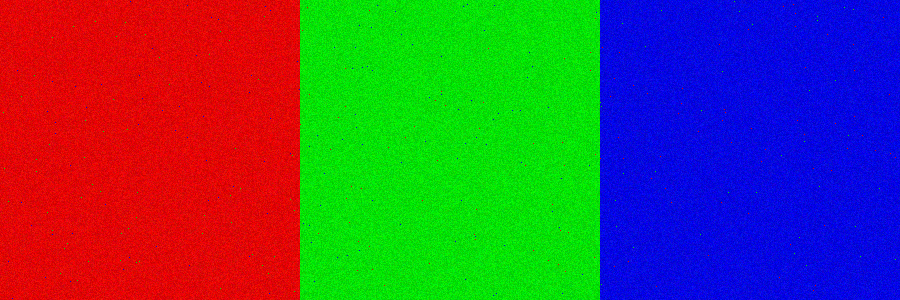
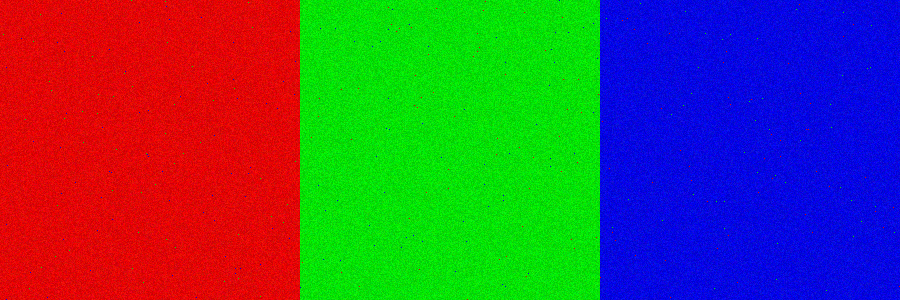
denoising an image

Changed region(s): [[0.0, 0.0, 1.0, 1.0]]

diff --git a/src/noisyRGBimage.py b/src/noisyRGBimage.py
@@ -49,7 +49,7 @@ noisy_image = Image.fromarray(noisy_image_array.astype(np.uint8))
 pixels = noisy_image.load()
 # pixels = np.random.randint(0, 15)
 
-# get height and width of image
+# generate random noise
 height = noisy_image.height
 width = noisy_image.width
 print('height: ', height, " width: ", width)
@@ -58,14 +58,22 @@ print('img.size[0]: ', noisy_image.size[0], ' img.size[1]: ', noisy_image.size[1
 # calculate the total number of pixels in the image = height * width
 total_num_pixels = height * width
 
+# iterate through image
 for i in range(width):
     for j in range(height):
-        x = pixels[i, j]
-        y = (math.ceil(random.random() * 50 - 25), math.ceil(random.random() * 50 - 25), math.ceil(random.random() * 50 - 25))
-        z = tuple(map(lambda i, j: i + j, x,y))
-        # y = tuple(map(tuple, y.astype(int)))
+        
+        # get current pixel value
+        current_pixel_value = pixels[i, j]
+        
+        # get a random number between (-25, 25)
+        rand_num = (math.ceil(random.random() * 50 - 25), math.ceil(random.random() * 50 - 25), math.ceil(random.random() * 50 - 25))
+        
+        # add random number to the current pixel value
+        new_pixel_value = tuple(map(lambda i, j: i + j, current_pixel_value, rand_num))
         # print("I; ", i , "j: ", j, "x: ", x, "y: ", y, 'z: ', z)
-        pixels[i, j] = z
+        
+        # update current pixel to new color
+        pixels[i, j] = new_pixel_value
     
 # total_num_pixels = height * width
 # print(total_num_pixels)

diff --git a/src/denoiseImage.py b/src/denoiseImage.py
@@ -1,0 +1,19 @@
+from PIL import Image
+import numpy as np
+import random
+import math
+
+# open image
+with Image.open('noisy_rgb_image.png') as im:
+    
+    # access individual pixel values
+    pixel = im.load()
+
+# get width and height of image
+width = im.width
+height = im.height
+
+# iterate through each pixel
+for w in range(width):
+    for h in range(height):
+        # calculate PHI
